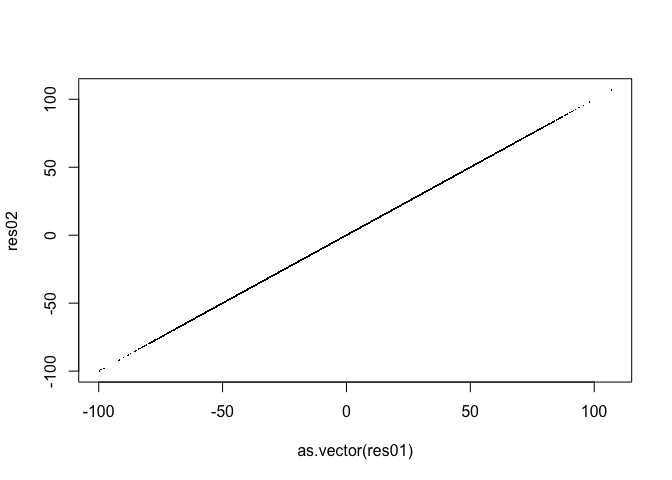
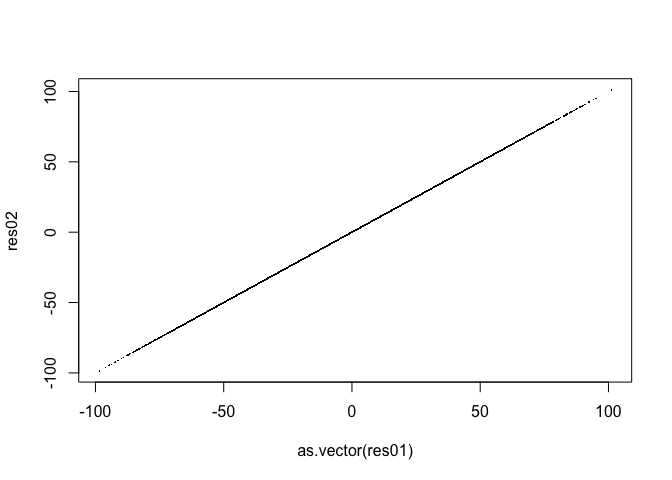
print formatting

diff --git a/README.md b/README.md
@@ -339,21 +339,21 @@ system.time(res01 <- var01 %*% var02)
 ```
 
     ##    user  system elapsed 
-    ##   0.031   0.000   0.032
+    ##    0.03    0.00    0.03
 
 ``` r
 if (opencl_is_available()) {
   print("OpenCL implementation:")
-  system.time(res02 <- simple_wrapper(framework = "opencl",
-                                      context_ptr = cl_ctx,
-                                      kernel_ptr = cl_knl$opencl_mm_naive,
-                                      arg_types = opencl_arg_types,
-                                      arg_list = arg_list,
-                                      problem_dims = as.integer(c(dim01,
-                                                                  dim04,
-                                                                  1L)),
-                                      group_dims = NULL,
-                                      workers_per = NULL))
+  print(system.time(res02 <- simple_wrapper(framework = "opencl",
+                                            context_ptr = cl_ctx,
+                                            kernel_ptr = cl_knl$opencl_mm_naive,
+                                            arg_types = opencl_arg_types,
+                                            arg_list = arg_list,
+                                            problem_dims = as.integer(c(dim01,
+                                                                        dim04,
+                                                                        1L)),
+                                            group_dims = NULL,
+                                            workers_per = NULL)))
   plot(as.vector(res01),
        res02,
        pch = 46)
@@ -361,38 +361,40 @@ if (opencl_is_available()) {
 ```
 
     ## [1] "OpenCL implementation:"
+    ##    user  system elapsed 
+    ##   0.001   0.002   0.016
 
 ![](README_files/figure-gfm/execute_dispatch-1.png)<!-- -->
 
 ``` r
 if (cuda_is_available()) {
   print("CUDA implementation:")
-  system.time(res03 <- simple_wrapper(framework = "cuda",
-                                      context_ptr = cu_ctx,
-                                      kernel_ptr = cu_knl$cuda_mm_naive,
-                                      arg_types = cuda_arg_types,
-                                      arg_list = arg_list,
-                                      problem_dims = as.integer(c(dim01,
-                                                                  dim04,
-                                                                  1L)),
-                                      group_dims = NULL,
-                                      workers_per = NULL))
+  print(system.time(res03 <- simple_wrapper(framework = "cuda",
+                                            context_ptr = cu_ctx,
+                                            kernel_ptr = cu_knl$cuda_mm_naive,
+                                            arg_types = cuda_arg_types,
+                                            arg_list = arg_list,
+                                            problem_dims = as.integer(c(dim01,
+                                                                        dim04,
+                                                                        1L)),
+                                            group_dims = NULL,
+                                            workers_per = NULL)))
   plot(as.vector(res01),
        res03,
        pch = 46)
 }
 if (metal_is_available()) {
   print("Metal implementation:")
-  system.time(res03 <- simple_wrapper(framework = "metal",
-                                      context_ptr = mtl_ctx,
-                                      kernel_ptr = mtl_knl$metal_mm_naive,
-                                      arg_types = metal_arg_types,
-                                      arg_list = arg_list,
-                                      problem_dims = as.integer(c(dim01,
-                                                                  dim04,
-                                                                  1L)),
-                                      group_dims = NULL,
-                                      workers_per = NULL))
+  print(system.time(res03 <- simple_wrapper(framework = "metal",
+                                            context_ptr = mtl_ctx,
+                                            kernel_ptr = mtl_knl$metal_mm_naive,
+                                            arg_types = metal_arg_types,
+                                            arg_list = arg_list,
+                                            problem_dims = as.integer(c(dim01,
+                                                                        dim04,
+                                                                        1L)),
+                                            group_dims = NULL,
+                                            workers_per = NULL)))
   plot(as.vector(res01),
        res03,
        pch = 46)
@@ -400,6 +402,8 @@ if (metal_is_available()) {
 ```
 
     ## [1] "Metal implementation:"
+    ##    user  system elapsed 
+    ##   0.001   0.000   0.006
 
 ![](README_files/figure-gfm/execute_dispatch-2.png)<!-- -->
 
